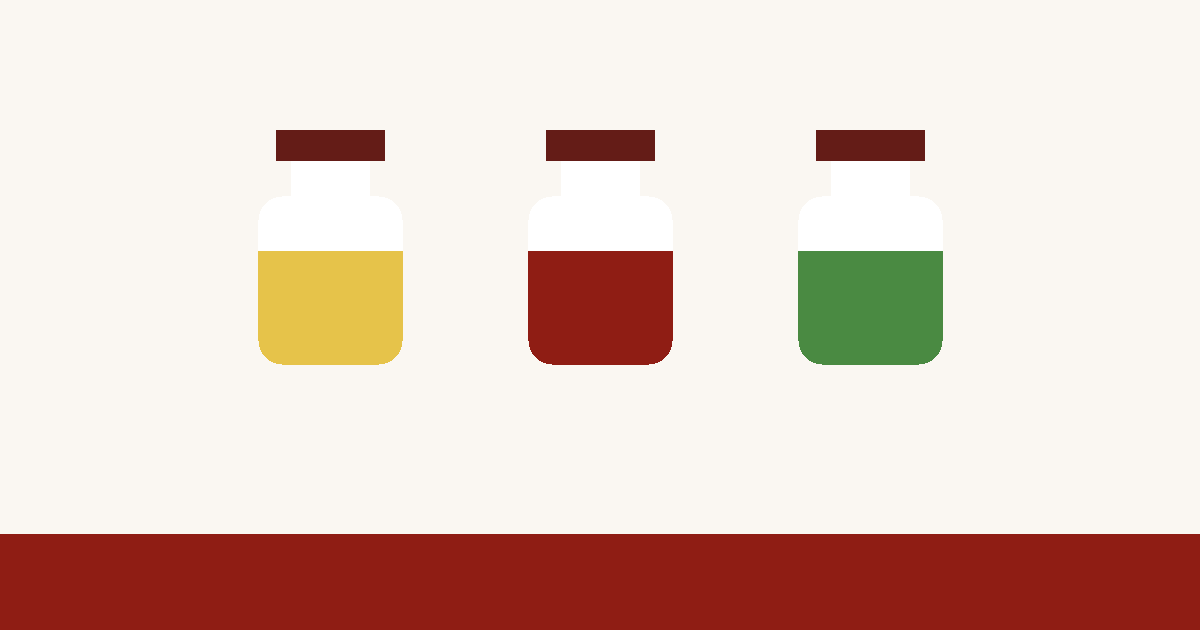
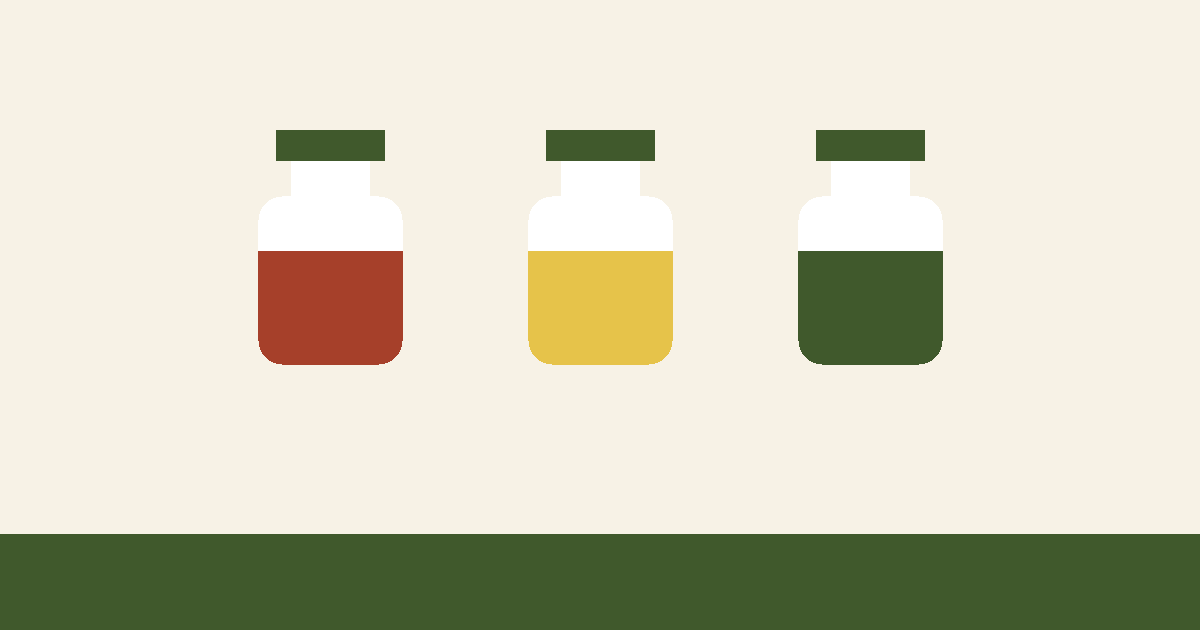
Rename the shop to Deeva Achar and give it its own mark
The name was Achar Ghar in 58 places across the client, the server, the
seed content and the docs, and the mark beside it was a flame glyph in a
rounded box - a placeholder standing in for a logo that did not exist
yet. The logo exists now, so both change together.

The mark is public/logo.jpg, the badge as supplied. It is a round design
printed on a square field, so the header clips it to a circle and scales
it 1.18x to crop the white margin off; left uncropped it reads as a white
tile floating on the cream header, which is the one thing a logo must not
do. The favicon is not a scaled-down copy of it - at 16px a pot, a mango,
a chilli, a wordmark and two lines of Devanagari all turn to mush - so it
keeps the jar motif and borrows only the badge's olive and brick, and the
Open Graph card is regenerated from those same two colours.

apple-touch-icon.png is gone rather than redrawn. It was generated pixel
maths approximating a brand that had no logo; a real mark beats a drawn
placeholder at every size, and the manifest now points iOS at logo.jpg.

Two things were fixed in passing because the rename walked straight into
them:

index.html carried a hardcoded canonical pointing at acharghar.com.np, a
domain this shop does not own and never did. It is removed, not renamed:
lib/seo.js already sets a canonical per route from the live origin, and
guessing a second domain nobody has registered would repeat the mistake
[…]

diff --git a/client/src/components/layout/Header.jsx b/client/src/components/layout/Header.jsx
@@ -41,6 +41,11 @@ export default function Header() {
   const [term, setTerm] = useState('');
   const menuRef = useRef(null);
 
+  // Settings arrive from the API a beat after first paint, so the literal is what the
+  // very first frame shows. It is the brand name, not a placeholder - if it ever renders
+  // it should already be right.
+  const brandName = settings.company?.name ?? 'Deeva Achar';
+
   // Any navigation closes everything - otherwise the drawer stays open over the new page.
   useEffect(() => {
     setDrawerOpen(false);
@@ -109,16 +114,32 @@ export default function Header() {
               <Icon name="menu" />
             </button>
 
-            <Link to="/" className="flex shrink-0 items-center gap-2.5" aria-label="Achar Ghar home">
-              <span className="bg-brand-700 grid size-10 place-items-center rounded-lg text-white shadow-sm">
-                <Icon name="flame" className="size-5.5" />
+            <Link
+              to="/"
+              className="flex shrink-0 items-center gap-2.5"
+              aria-label={`${brandName} home`}
+            >
+              {/*
+                The badge is a round mark printed on a square white field. Clipping it to a
+                circle and letting it overflow the frame crops that margin off, so the green
+                ring meets the edge of the container - otherwise the mark reads as a white
+                tile floating on the cream header, which is the one thing a logo must not do.
+              */}
+              <span className="ring-ink-900/5 grid size-10 shrink-0 place-items-center overflow-hidden rounded-full bg-white shadow-sm ring-1">
+                <img
+                  src="/logo.jpg"
+                  alt=""
+                  width="40"
+                  height="40"
+                  className="size-full scale-[1.18] object-cover"
+                />
               </span>
               <span className="hidden sm:block">
                 <span className="text-ink-900 font-display block text-lg leading-tight font-bold">
-                  {settings.company?.name ?? 'Achar Ghar'}
+                  {brandName}
                 </span>
                 <span className="text-ink-400 block text-[0.6875rem] leading-tight">
-                  {locale === 'np' ? 'घरैको स्वादिष्ट अचार' : 'Homemade Nepali achar'}
+                  {locale === 'np' ? 'लुकेको स्वाद' : 'Tradition · Taste · Trust'}
                 </span>
               </span>
             </Link>

diff --git a/server/src/models/SiteSettings.js b/server/src/models/SiteSettings.js
@@ -38,17 +38,19 @@ const siteSettingsSchema = new mongoose.Schema(
     key: { type: String, default: 'default', unique: true, immutable: true },
 
     company: {
-      name: { type: String, default: 'Achar Ghar' },
-      nameNp: { type: String, default: 'अचार घर' },
-      tagline: { type: String, default: 'Authentic Nepali Pickles, Made With Love' },
-      taglineNp: { type: String, default: 'प्रामाणिक नेपाली अचार, मायाले बनाइएको' },
-      legalName: { type: String, default: 'Achar Ghar Pvt. Ltd.' },
+      name: { type: String, default: 'Deeva Achar' },
+      nameNp: { type: String, default: 'दीवा अचार' },
+      // Both taglines are lifted straight off the badge: the Devanagari one is the line
+      // under the wordmark, the English one is the three words around the bottom rim.
+      tagline: { type: String, default: 'Tradition · Taste · Trust' },
+      taglineNp: { type: String, default: 'लुकेको स्वाद' },
+      legalName: { type: String, default: 'Deeva Achar Pvt. Ltd.' },
       panNumber: { type: String, default: '' },
       logoUrl: { type: String, default: '' },
       faviconUrl: { type: String, default: '' },
       // NAP - kept identical everywhere for local SEO consistency.
-      email: { type: String, default: 'hello@acharghar.com.np' },
-      supportEmail: { type: String, default: 'support@acharghar.com.np' },
+      email: { type: String, default: 'hello@deevaachar.com.np' },
+      supportEmail: { type: String, default: 'support@deevaachar.com.np' },
       phone: { type: String, default: '9801234567' },
       whatsapp: { type: String, default: '9801234567' },
       landline: { type: String, default: '01-4001234' },
@@ -126,8 +128,8 @@ const siteSettingsSchema = new mongoose.Schema(
     },
 
     seo: {
-      defaultTitle: { type: String, default: 'Achar Ghar | Buy Authentic Nepali Pickle Online' },
-      titleTemplate: { type: String, default: '%s | Achar Ghar' },
+      defaultTitle: { type: String, default: 'Deeva Achar | Buy Authentic Nepali Pickle Online' },
+      titleTemplate: { type: String, default: '%s | Deeva Achar' },
       defaultDescription: {
         type: String,
         default:

diff --git a/server/src/seed/data/content.js b/server/src/seed/data/content.js
@@ -405,7 +405,7 @@ export const blogPosts = [
 <h2>What we do</h2>
 <p>Domestic orders ship in rigid boxes with tamper-proof lid seals. For international orders we currently ship only vegetarian pickles, and we mark the customs declaration accurately - under-declaring the contents of a food parcel is how a shipment gets seized.</p>
 `,
-    authorName: 'Achar Ghar Team',
+    authorName: 'Deeva Achar Team',
     status: 'published',
     seo: {
       title: 'Sending Nepali Achar Abroad - Packing and Customs Guide',
@@ -529,7 +529,7 @@ export const policies = {
 <h2>Cookies</h2>
 <p>We use cookies for authentication (an HTTP-only session cookie), for CSRF protection, and to remember your cart. We do not use third-party advertising cookies.</p>
 <h2>Your Rights</h2>
-<p>You may request a copy of your data, ask us to correct it, or ask us to delete your account. Write to privacy@acharghar.com.np. We keep order records for seven years where tax law requires it, even after an account is deleted.</p>
+<p>You may request a copy of your data, ask us to correct it, or ask us to delete your account. Write to privacy@deevaachar.com.np. We keep order records for seven years where tax law requires it, even after an account is deleted.</p>
 <h2>Security</h2>
 <p>Passwords are hashed with bcrypt and are never stored or recoverable in plain text. All traffic is served over HTTPS.</p>
 `,
@@ -546,7 +546,7 @@ export const policies = {
 <h2>Reviews</h2>
 <p>Reviews may be published only by customers who bought the product. We moderate reviews before publication and remove those that are abusive, off-topic or fake. We do not remove reviews for being critical.</p>
 <h2>Intellectual Property</h2>
-<p>All content on this site - text, photography, logos and product descriptions - belongs to Achar Ghar Pvt. Ltd. and may not be reproduced commercially without written permission.</p>
+<p>All content on this site - text, photography, logos and product descriptions - belongs to Deeva Achar Pvt. Ltd. and may not be reproduced commercially without written permission.</p>
 <h2>Liability</h2>
 <p>Please read the allergen information on every product page before ordering. Our liability for any order is limited to the amount you paid for it.</p>
 `,

diff --git a/client/index.html b/client/index.html
@@ -10,17 +10,22 @@
       overwrites them at runtime through src/lib/seo.js; product and blog pages pull
       their copy from the API so the admin controls what gets indexed.
     -->
-    <title>Devaa Achar - लुकेको स्वाद </title>
+    <title>Deeva Achar - लुकेको स्वाद</title>
     <meta
       name="description"
       content="Traditional Nepali achar made in small batches - mula, lapsi, gundruk, dalle and sukuti pickles. Cash on delivery, Khalti and eSewa. Delivered across Nepal."
     />
     <meta name="theme-color" content="#8f1d14" />
-    <link rel="canonical" href="https://acharghar.com.np/" />
+    <!--
+      No hardcoded canonical. src/lib/seo.js sets one per route from the live origin, and
+      a static tag here would have to name a single domain - which is how the old brand's
+      acharghar.com.np ended up pointing crawlers at a host this shop does not own. Set
+      VITE_SITE_URL at build time once there is a custom domain.
+    -->
 
-    <meta property="og:site_name" content="Achar Ghar" />
+    <meta property="og:site_name" content="Deeva Achar" />
     <meta property="og:type" content="website" />
-    <meta property="og:title" content="Achar Ghar - Homemade Nepali Achar, Delivered Fresh" />
+    <meta property="og:title" content="Deeva Achar - Homemade Nepali Achar, Delivered Fresh" />
     <meta
       property="og:description"
       content="Traditional Nepali achar made in small batches. Cash on delivery, Khalti and eSewa."
@@ -28,7 +33,7 @@
     <meta name="twitter:card" content="summary_large_image" />
 
     <link rel="icon" type="image/svg+xml" href="/favicon.svg" />
-    <link rel="apple-touch-icon" href="/apple-touch-icon.png" />
+    <link rel="apple-touch-icon" href="/logo.jpg" />
     <link rel="manifest" href="/manifest.webmanifest" />
 
     <!--
@@ -42,7 +47,7 @@
   <body>
     <div id="root"></div>
     <noscript>
-      Achar Ghar needs JavaScript to run. To order over the phone instead, call
+      Deeva Achar needs JavaScript to run. To order over the phone instead, call
       <a href="tel:+9779800000000">+977 98-0000-0000</a>.
     </noscript>
     <script type="module" src="/src/main.jsx"></script>

diff --git a/client/src/lib/seo.js b/client/src/lib/seo.js
@@ -16,14 +16,19 @@
  */
 
 const MANAGED = 'data-seo';
-const SITE_NAME = 'Achar Ghar';
+const SITE_NAME = 'Deeva Achar';
 const TITLE_SUFFIX = ` | ${SITE_NAME}`;
 const MAX_TITLE = 60;
 const MAX_DESCRIPTION = 160;
 
 const origin = () =>
   import.meta.env.VITE_SITE_URL?.replace(/\/$/, '') ||
-  (typeof window !== 'undefined' ? window.location.origin : 'https://acharghar.com.np');
+  // The last fallback only applies without a `window`, which this SPA never is. It names
+  // the deployment rather than a brand domain on purpose: a canonical pointing at a host
+  // nobody owns is worse than one pointing at an ugly URL that actually serves the site.
+  (typeof window !== 'undefined'
+    ? window.location.origin
+    : 'https://achar-web-appvercelapp.vercel.app');
 
 /** Removes every tag a previous page added, leaving index.html's own tags in place. */
 function clearManaged() {
@@ -78,8 +83,13 @@ export function applySeo({
 } = {}) {
   clearManaged();
 
+  // The suffix is skipped when the title already carries the brand. Site Settings ships a
+  // `defaultTitle` of "Deeva Achar | Buy Authentic Nepali Pickle Online" and the home page
+  // passes it through verbatim, so appending unconditionally printed the name twice in the
+  // tab and in the search result - short enough to clear the length guard, which is why it
+  // went unnoticed.
   const fullTitle = title
-    ? title.length + TITLE_SUFFIX.length > MAX_TITLE + 12
+    ? title.includes(SITE_NAME) || title.length + TITLE_SUFFIX.length > MAX_TITLE + 12
       ? title
       : `${title}${TITLE_SUFFIX}`
     : `${SITE_NAME} - Homemade Nepali Achar, Delivered Fresh`;

diff --git a/client/src/pages/About.jsx b/client/src/pages/About.jsx
@@ -20,7 +20,7 @@ import { breadcrumbJsonLd } from '../lib/seo';
 export default function About() {
   const { settings } = useSettings();
   const company = settings.company ?? {};
-  const name = company.name || 'Achar Ghar';
+  const name = company.name || 'Deeva Achar';
 
   useSeo({
     title: `About ${name}`,
@@ -33,7 +33,11 @@ export default function About() {
         name: company.legalName || name,
         alternateName: company.nameNp || undefined,
         url: window.location.origin,
-        logo: company.logoUrl || undefined,
+        // Falls back to the badge that ships with the site. schema.org wants an absolute
+        // URL, and this is the one field Google surfaces directly in a knowledge panel -
+        // leaving it undefined because nobody has pasted a Cloudinary link into Settings
+        // yet means the panel shows no mark at all.
+        logo: company.logoUrl || `${window.location.origin}/logo.jpg`,
         email: company.email || undefined,
         telephone: company.phone || undefined,
         address: company.address

diff --git a/server/src/config/env.js b/server/src/config/env.js
@@ -125,7 +125,7 @@ export const env = {
     secure: bool(process.env.EMAIL_SECURE, int(process.env.EMAIL_PORT, 587) === 465),
     user: process.env.EMAIL_USER || '',
     password: process.env.EMAIL_PASSWORD || '',
-    from: process.env.EMAIL_FROM || 'Achar Ghar <no-reply@acharghar.com.np>',
+    from: process.env.EMAIL_FROM || 'Deeva Achar <no-reply@deevaachar.com.np>',
     get enabled() {
       return this.provider === 'brevo'
         ? Boolean(this.brevoApiKey)
@@ -134,9 +134,9 @@ export const env = {
   },
 
   seed: {
-    adminEmail: process.env.SEED_ADMIN_EMAIL || 'admin@acharghar.com.np',
+    adminEmail: process.env.SEED_ADMIN_EMAIL || 'admin@deevaachar.com.np',
     adminPassword: process.env.SEED_ADMIN_PASSWORD || '',
-    adminName: process.env.SEED_ADMIN_NAME || 'Achar Ghar Admin',
+    adminName: process.env.SEED_ADMIN_NAME || 'Deeva Achar Admin',
     /**
      * Shared password for the demo customer accounts. There is no default and the
      * seed refuses to create them in production, so a live database can never end up

diff --git a/client/src/components/layout/AdminLayout.jsx b/client/src/components/layout/AdminLayout.jsx
@@ -118,7 +118,7 @@ export default function AdminLayout() {
           >
             <Icon name="menu" />
           </button>
-          <span className="font-display text-ink-900 font-bold">Achar Ghar admin</span>
+          <span className="font-display text-ink-900 font-bold">Deeva Achar admin</span>
           <Link to="/" className="btn-ghost btn-sm ml-auto" title="View storefront">
             <Icon name="external" className="size-4" />
           </Link>
@@ -142,7 +142,7 @@ function SidebarContent({ isAdmin, user, onSignOut, onClose }) {
           <Icon name="flame" className="size-5" />
         </span>
         <div className="min-w-0 flex-1">
-          <p className="truncate text-sm font-bold text-white">Achar Ghar</p>
+          <p className="truncate text-sm font-bold text-white">Deeva Achar</p>
           <p className="text-[0.6875rem] text-cream-400">Admin dashboard</p>
         </div>
         {onClose ? (

diff --git a/client/src/pages/Policy.jsx b/client/src/pages/Policy.jsx
@@ -42,7 +42,7 @@ const META = {
   },
   terms: {
     title: 'Terms of service',
-    lead: 'The agreement between you and Achar Ghar when you place an order.',
+    lead: 'The agreement between you and Deeva Achar when you place an order.',
   },
 };
 
@@ -333,7 +333,7 @@ function Fallback({ slug, company, threshold }) {
     <div className="rich-text">
       <h2>Who you are dealing with</h2>
       <p>
-        {company.legalName || company.name || 'Achar Ghar'}, registered in Nepal and operating
+        {company.legalName || company.name || 'Deeva Achar'}, registered in Nepal and operating
         the site you are reading. Placing an order means you accept these terms.
       </p>
       <h2>Orders</h2>

diff --git a/client/src/components/layout/Footer.jsx b/client/src/components/layout/Footer.jsx
@@ -62,7 +62,7 @@ export default function Footer() {
                 <Icon name="flame" className="size-5.5" />
               </span>
               <span className="font-display text-lg font-bold text-white">
-                {company.name ?? 'Achar Ghar'}
+                {company.name ?? 'Deeva Achar'}
               </span>
             </div>
 
@@ -142,7 +142,7 @@ export default function Footer() {
           </div>
 
           <p className="text-xs text-cream-400">
-            © {year} {company.name ?? 'Achar Ghar'}. Made in Nepal.
+            © {year} {company.name ?? 'Deeva Achar'}. Made in Nepal.
           </p>
         </div>
       </div>

diff --git a/client/src/pages/Contact.jsx b/client/src/pages/Contact.jsx
@@ -37,7 +37,7 @@ export default function Contact() {
   useSeo({
     title: 'Contact us',
     description:
-      'Talk to Achar Ghar about an order, a wholesale enquiry, or anything you cannot find an answer to. Phone, WhatsApp, email and our address in Lalitpur.',
+      'Talk to Deeva Achar about an order, a wholesale enquiry, or anything you cannot find an answer to. Phone, WhatsApp, email and our address in Lalitpur.',
     canonical: '/contact',
     structuredData: breadcrumbJsonLd([
       { name: 'Home', url: '/' },

diff --git a/client/src/pages/admin/AdminLogin.jsx b/client/src/pages/admin/AdminLogin.jsx
@@ -54,7 +54,7 @@ export default function AdminLogin() {
           <span className="bg-brand-700 mb-3 grid size-12 place-items-center rounded-xl text-white">
             <Icon name="flame" className="size-6" />
           </span>
-          <h1 className="font-display text-xl font-bold text-white">Achar Ghar admin</h1>
+          <h1 className="font-display text-xl font-bold text-white">Deeva Achar admin</h1>
           <p className="mt-1 text-sm text-cream-400">Sign in to manage the shop</p>
         </div>
 
